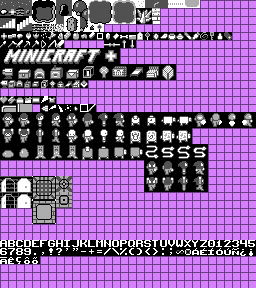
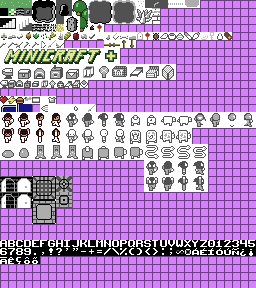
Fix transparency and added lots of color to sprites

Changed region(s): [[0.0, 0.0, 1.0, 0.6875]]

diff --git a/src/minicraft/gfx/Screen.java b/src/minicraft/gfx/Screen.java
@@ -68,7 +68,10 @@ public class Screen {
 				if (mirrorX) xs = 7 - x; // Reverses the pixel for a mirroring effect
 
 				int col = sheet.pixels[toffs + xs + ys * sheet.width]; // Gets the color of the current pixel from the value stored in sheet.pixels.
-				pixels[(x + xp) + (y + yp) * w] = Color.upgrade(col); // Inserts the colors into the image.
+
+				boolean isTransparent = (col >> 12 == 0);
+
+				if (!isTransparent) pixels[(x + xp) + (y + yp) * w] = Color.upgrade(col); // Inserts the colors into the image.
 			}
 		}
 	}
